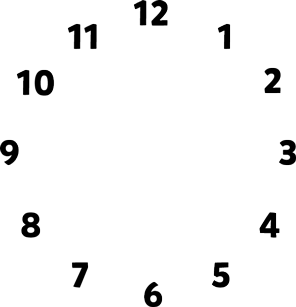
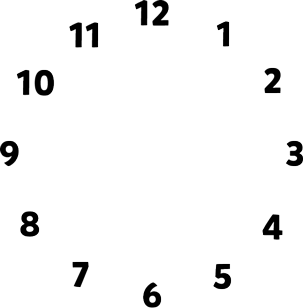
Improved clock numbers asset.

diff --git a/tools/clock/main.js b/tools/clock/main.js
@@ -67,14 +67,11 @@ define(['exports', 'cocos2d', 'toollayer', 'qlayer', 'constants', 'clock', 'anal
             this.wordClock.setPosition(this.size.width/2, 65);
             this.addChild(this.wordClock);
             this.clocks.push(this.wordClock);
-            this.wordClock.setVisible(false);
 
             this.setupSettingsPanel();
 
             var time = new Time();
-            var randomHours = Math.floor(Math.random() * 24);
-            var randomMinutes = Math.floor(Math.random() * 60);
-            time.setTime(randomHours, randomMinutes);
+            time.setTime(10, 10);
             for (var i = 0; i < this.clocks.length; i++) {
                 var clock = this.clocks[i];
                 clock.setupTime(time);
@@ -171,11 +168,13 @@ define(['exports', 'cocos2d', 'toollayer', 'qlayer', 'constants', 'clock', 'anal
             var numbersButtonSelected = new cc.MenuItemImage.create(s_numbers_button_selected, s_numbers_button_selected);
             var numbersButton = new cc.MenuItemToggle.create(numbersButtonUnselected, numbersButtonSelected, this.numbersToggle, this);
             numbersButton.setPosition(0, -50);
+            numbersButton.setSelectedIndex(1);
 
             var sentenceButtonUnselected = new cc.MenuItemImage.create(s_sentence_button_unselected, s_sentence_button_unselected);
             var sentenceButtonSelected = new cc.MenuItemImage.create(s_sentence_button_selected, s_sentence_button_selected);
             var sentenceButton = new cc.MenuItemToggle.create(sentenceButtonUnselected, sentenceButtonSelected, this.sentenceToggle, this);
             sentenceButton.setPosition(200, -50);
+            sentenceButton.setSelectedIndex(1);
 
             var settingsMenu = new cc.Menu.create(settingsCloseButton, this.analogueButton, this.digitalButton, this.bothButton, this.hour12Button, this.hour24Button, wordsButton, numbersButton, sentenceButton);
             settingsPanel.addChild(settingsMenu);

diff --git a/tools/clock/analogue-clock.js b/tools/clock/analogue-clock.js
@@ -28,7 +28,6 @@ define (['clock', 'hand', 'constants'], function(Clock, Hand, constants) {
             this.numbers.initWithFile(s_clock_numbers);
             this.numbers.setPosition(this.clockCentre);
             this.addChild(this.numbers);
-            this.numbers.setVisible(false);
         },
 
         setupWords:function() {
@@ -40,7 +39,6 @@ define (['clock', 'hand', 'constants'], function(Clock, Hand, constants) {
             for (var i = 0; i < s_clock_cards.length; i++) {
                 var card = new cc.Sprite();
                 card.initWithFile(s_clock_cards[i]);
-
                 card.setPosition(upperRadius * Math.sin(2 * Math.PI * i/12), lowerRadius * Math.cos(2 * Math.PI * i/12));
                 this.wordNode.addChild(card);
             };

diff --git a/tools/clock/hand.js b/tools/clock/hand.js
@@ -15,7 +15,7 @@ define(['handhandle', 'constants'], function(HandHandle, constants) {
             switch (this.type) {
                 case HandTypes.HOUR:
                     fileName = s_hour_hand;
-                    anchorPoint = cc.p(0.48, 0.02);
+                    anchorPoint = cc.p(0.5, 0.02);
                     break;
                 case HandTypes.MINUTE:
                     fileName = s_minute_hand;
